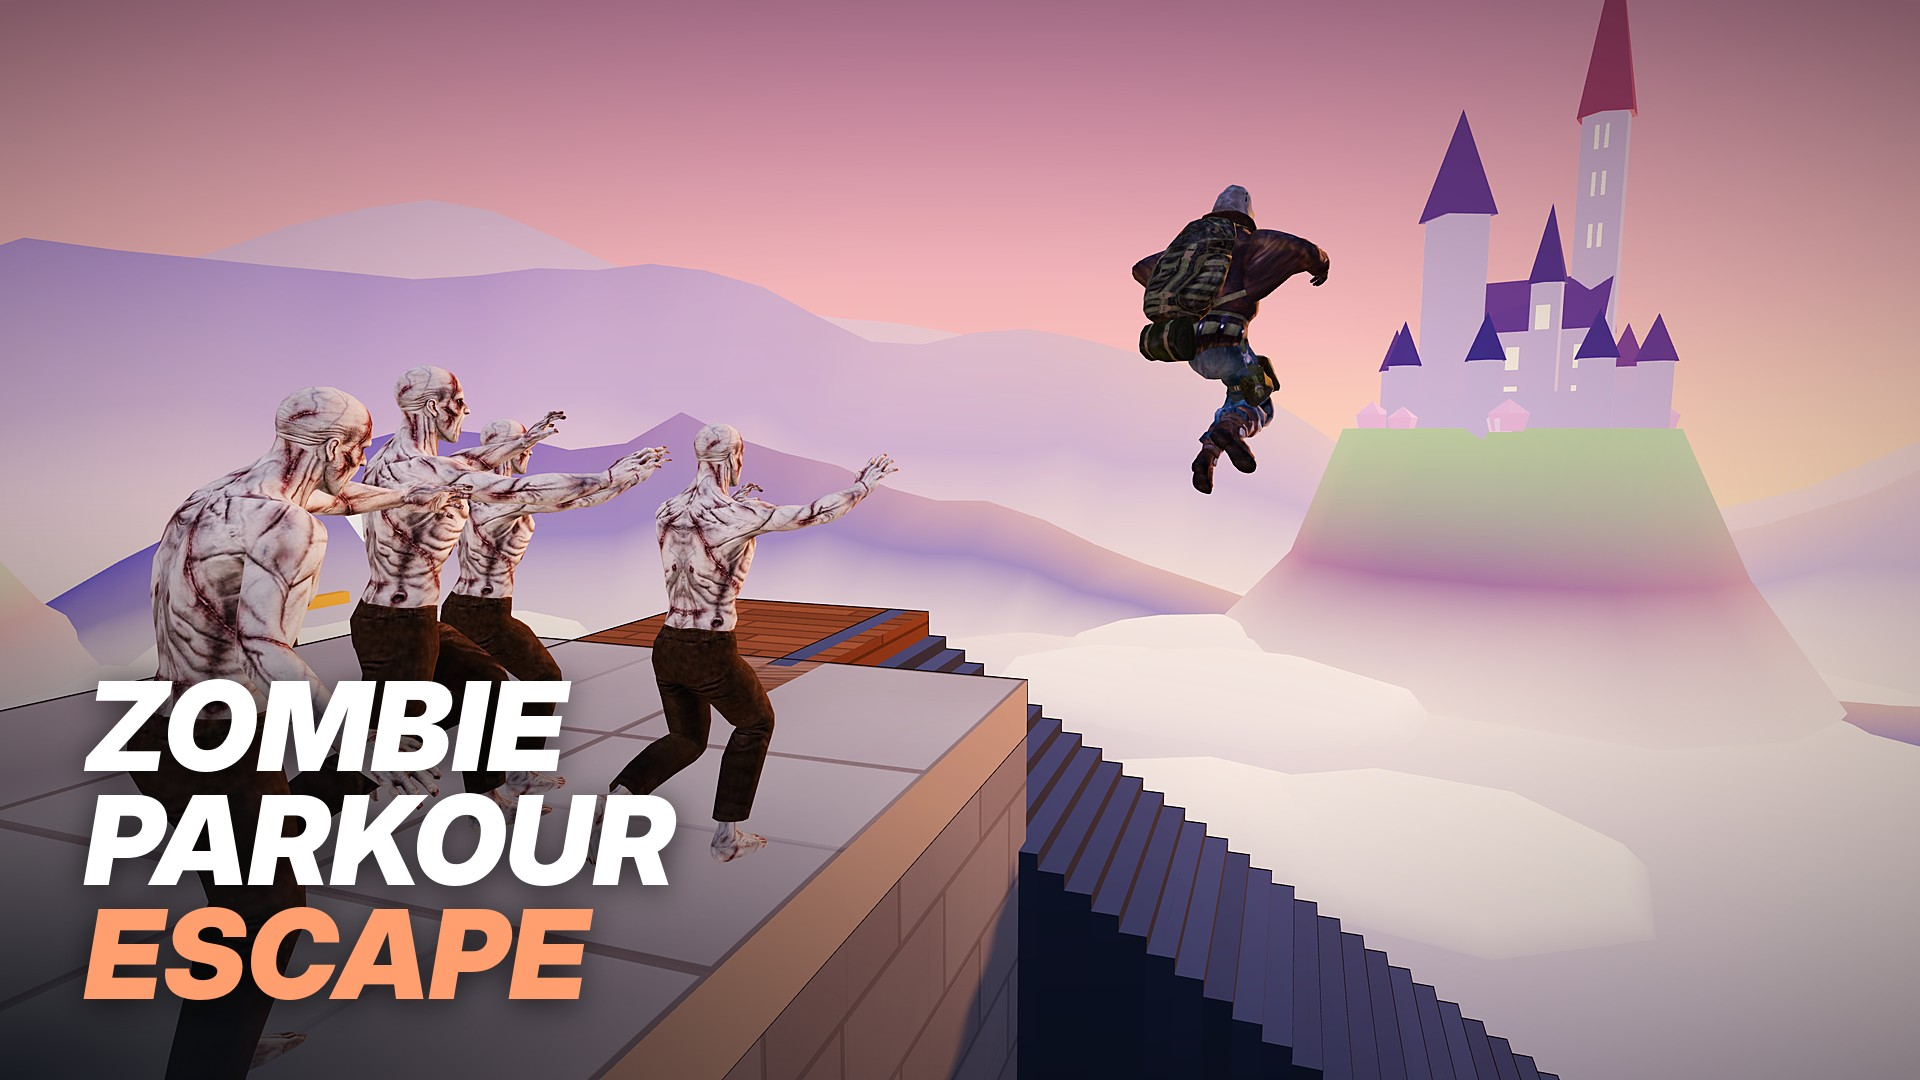
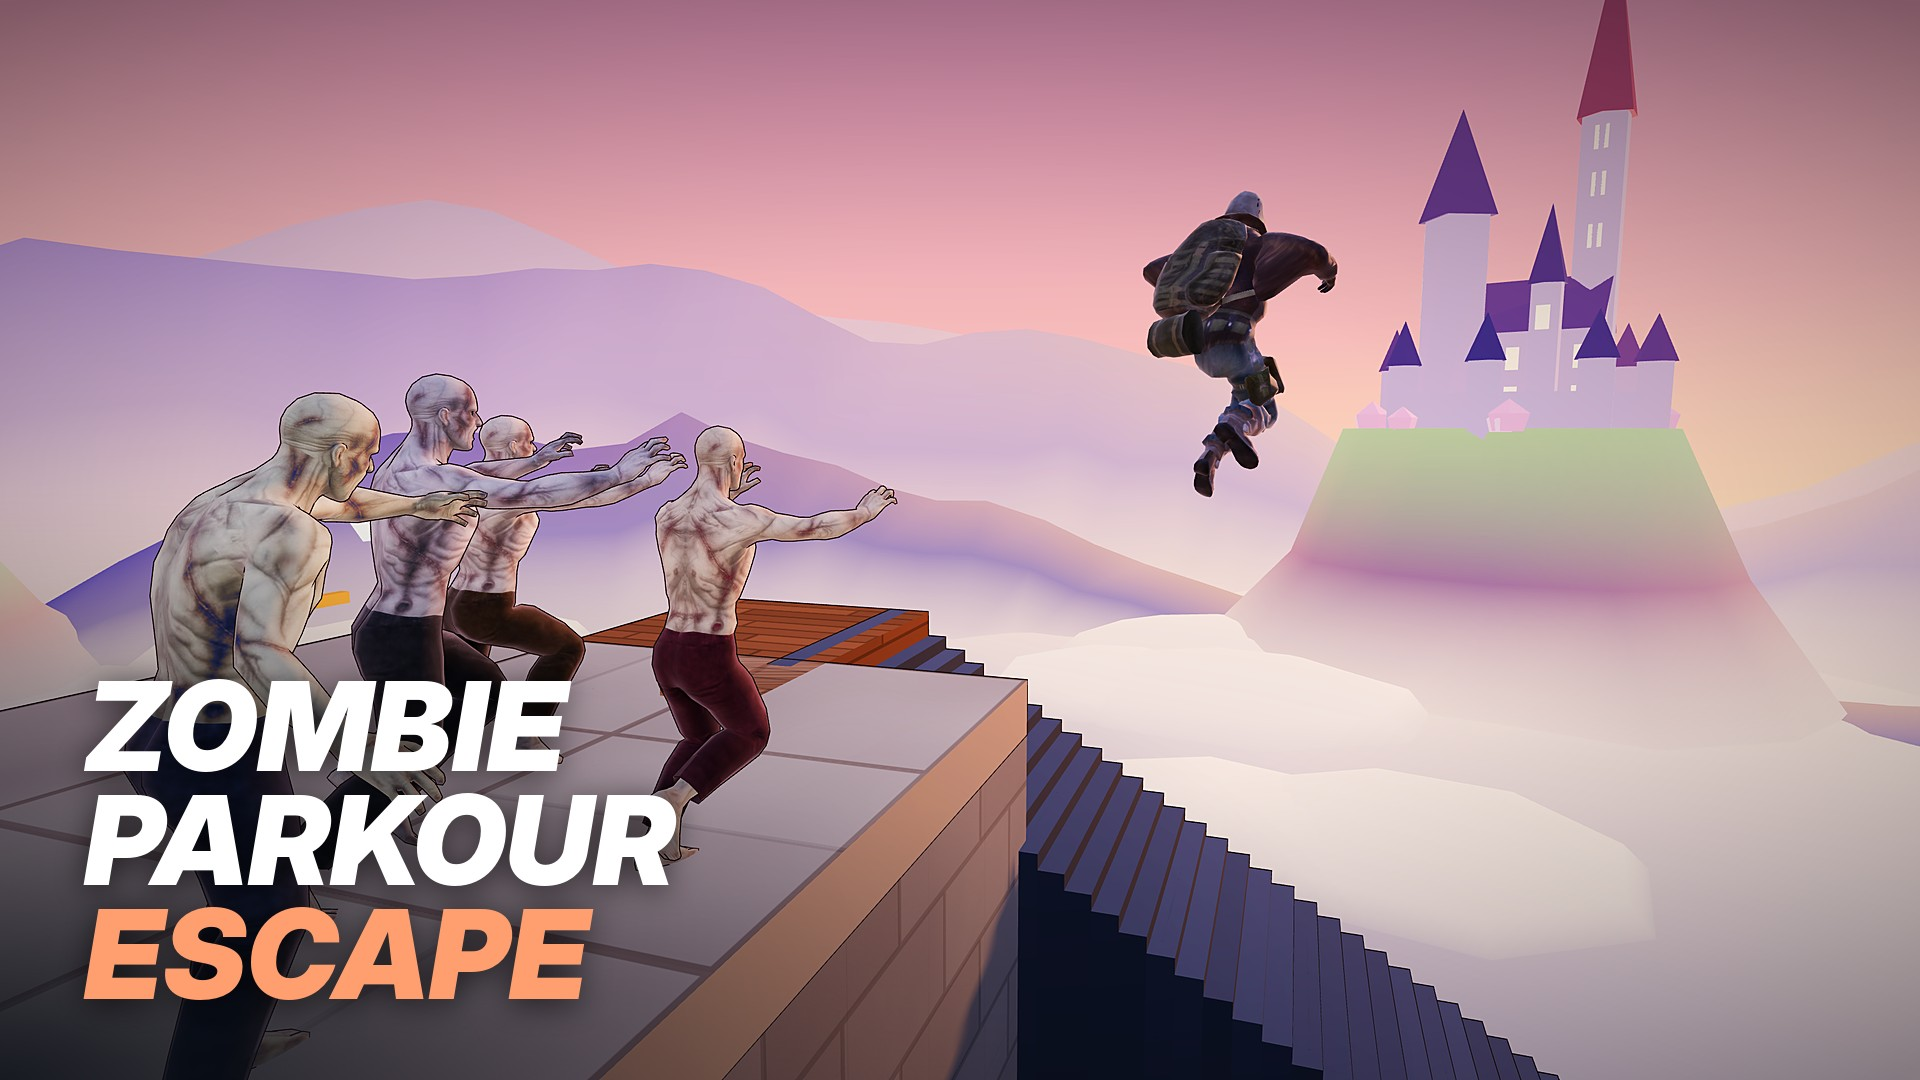
ゾンビの色は群れの中でいちばん少ない組み合わせを選ぶ／ホームの絵と表紙を新しい見た目で撮り直し
- 開始直後の4体が毎回ほぼ同じ色（乱数の並びが固定）だったので、生きている群れで少ない色を選ぶ
- assets/lobby/old-town-chase.webp と promo/covers/ の3枚：場面・設定は同じ、ゾンビが輪郭線つき・別々の色

Claude-Session: https://claude.ai/code/session_01QAvNNhRa9sF4Anrf1r9Pmm

Changed region(s): [[0.0625, 0.3361, 0.4688, 0.825], [0.5938, 0.1528, 0.7188, 0.4583]]

diff --git a/character-look.js b/character-look.js
@@ -76,7 +76,7 @@
     { skin: [.8, .95, .78], cloth: [.045, .06, .12], clothAmt: 1 },
     { skin: [.88, .78, .7], cloth: [.085, .1, .055], clothAmt: 1 },
     { skin: [.74, .82, .96], cloth: [.06, .06, .07], clothAmt: 1 },
-    { skin: [1, .95, .8], cloth: [.14, .055, .04], clothAmt: 1 },
+    { skin: [1, .95, .8], cloth: [.15, .035, .05], clothAmt: 1 },
   ];
   const variantCache = new Map(); // source material -> [materials]
   function variantOf(source, index) {
@@ -129,7 +129,10 @@
   const offsets = new WeakMap();
   function dress(zombie) {
     const body = zombie.m; body.skyLook = true; stats.dressed++;
-    const index = Math.floor(roll() * VARIANTS.length), tall = .95 + roll() * .1, wide = .93 + roll() * .16;
+    // The variant the living pack has least of (ties by chance), so a pack never comes out all alike.
+    const used = VARIANTS.map(() => 0); for (const other of sky.Jt) if (!other.dead && other !== zombie && other.m?.skyVariant !== undefined) used[other.m.skyVariant]++;
+    const least = Math.min(...used), free = used.map((count, k) => count === least ? k : -1).filter(k => k >= 0);
+    const index = free[Math.floor(roll() * free.length)], tall = .95 + roll() * .1, wide = .93 + roll() * .16;
     const plainKind = zombie.kind && zombie.kind !== 'walker';
     body.skyVariant = index; body.skyMeshes = []; body.skyOwnLook = plainKind ? ZOMBIE_LOOK : { ...ZOMBIE_LOOK, ...VARIANTS[index] };
     body.inner.scale.set(body.inner.scale.x * wide, body.inner.scale.y * tall, body.inner.scale.z * wide);

diff --git a/canyon.html b/canyon.html
@@ -7856,7 +7856,7 @@ window.skyFoundation?.attach(window.__skyInternals,window.__game);
 <script type="module" src="./weapon-hud.js?v=20261113-hud-v2"></script>
 <script type="module" src="./threat-trace.js?v=20261113-threat-v5"></script>
 <script type="module" src="./threat-edge.js?v=20261113-threat-v5"></script>
-<script type="module" src="./character-look.js?v=20261124-look-v2"></script>
+<script type="module" src="./character-look.js?v=20261124-look-v3"></script>
 <script type="module" src="./edge-pins.js?v=20261122-no-ammo-pin-v2"></script>
 <script src="./hud-declutter.js?v=20261115-declutter-v1" defer></script>
 <script type="module" src="./context-click.js?v=20261114-click-v2"></script>

diff --git a/index.html b/index.html
@@ -7885,7 +7885,7 @@ window.skyFoundation?.attach(window.__skyInternals,window.__game);
 <script type="module" src="./pause-focus.js?v=20261122-first-person-v1"></script>
 <script type="module" src="./mood.js?v=20261121-scenery-v2"></script>
 <script type="module" src="./far-scenery.js?v=20261122-sea-v1"></script>
-<script type="module" src="./character-look.js?v=20261124-look-v2"></script>
+<script type="module" src="./character-look.js?v=20261124-look-v3"></script>
 <script type="module" src="./look-pass.js?v=20261122-world-v2"></script>
 <script type="module" src="./ink-outline.js?v=20261111-ink-v1"></script>
 <script type="module" src="./contact-shadow.js?v=20261112-contact-v1"></script>

diff --git a/README.md b/README.md
@@ -5,7 +5,7 @@
 - **新しいファイル `character-look.js`**（両マップ。描画の直前に働く）
   - **塗り**：人とゾンビの写真のようなテクスチャを、粗いミップと混ぜて平らにし、縁に暗い色を足した（街の壁と同じ「塗った絵」に寄せる）。人の自己発光は 1 → 0.6。
   - **輪郭線**：ゾンビに、街と同じ色（`0x2b2220`）の線を付けた（裏返した外殻を1体につき1つ）。**PC だけ**。タッチ端末（`html.touch`）では作らない。`?charOutline=1` で強制、`?charOutline=0` で外す。人のモデルは骨ではなくモーフで動くので、線は付けていない。
-  - **見分け**：ゾンビ1体ごとに、肌の色とズボンの色（5通り）、背と幅（背 ±5%・幅 −7〜+9%）を変える。歩き・走りの周期の位置もずらす（群れが同じ足並みで動かない）。
+  - **見分け**：ゾンビ1体ごとに、肌の色とズボンの色（5通り。いま生きている群れの中でいちばん少ない組み合わせを選ぶので、群れが同じ色でそろわない）、背と幅（背 ±5%・幅 −7〜+9%）を変える。歩き・走りの周期の位置もずらす（群れが同じ足並みで動かない）。
   - **進化型の見た目を全難易度に**：これまで超ベリーハード（試作）だけだった進化型のモデルを、やさしい〜ハードでも見た目として混ぜる（開始30フレーム後に読み込む）。強さ・速さは同じ。試作の3種類（歩き・走り・重装）の色分けはそのまま。進化型のモデル（`assets/zombie-gunrun-evolved.glb`、279 KB）を全員が開始後に読み込むようになる。
   - **重なり**：生きているゾンビ2体が 0.62 m より近いとき、**描画だけ**最大 0.3 m ずらす。ゲーム上の位置・経路・当たり判定は動かさない。
   - **フックの輪**：金属 100% で映り込む物がなく真っ黒（タイヤに見えた）だったのを、暗い鉄に。
@@ -13,6 +13,7 @@
   - **撃たれたあとも見た目を保つ**：弾が当たると、ゲームはその1体だけ光らせるために材質を複製する（`enhancements.js` の `flashZombie`）。複製には塗りが引き継がれないので、次の描画で付け直す。
   - 合わせて直した前からの不具合：撃たれたゾンビの自己発光が、光ったあと 0.3 ではなく 1 に戻っていた（**一度撃たれたゾンビだけ白く明るくなっていた**）。元の値に戻すようにした（`enhancements.js`）。
   - ゲームの乱数（`Math.random`）は使わない（three.js は物を作るたびに乱数を4つ使うので、この処理の間だけ自前の乱数に差し替える）。試作の種類の出方が変わらないことを `bench/zombie-types-browser.cjs` で確かめた。
+- **ホームの絵・初回カード・表紙3枚を撮り直した**（`assets/lobby/old-town-chase.webp`、`promo/covers/`）。場面と設定は 11/23 と同じで、ゾンビが新しい見た目（輪郭線・4体が別々の色）になった。
 - **血（`enhancements.js`）**：四角い粒を、飛ぶ向きに伸びたしずくに。数と色は同じ。
 - **弾の線（`enhancements.js`）**：太さを半分に（`0.02 × 距離` → `0.0075 × 距離`）、色を少し明るく。
 - **負荷（ハード・ゾンビ6〜7体が画面内、1280×720）**：旧市街は 568 回・16.4万三角形 → PC 575 回・18.2万（輪郭線の分、1体あたり描画1回・約3千三角形）。輪郭線なし（＝スマホ）は 567 回・16.4万で前と同じ。渓谷は 126 回・5.3万 → PC 138 回・7.2万、スマホ 130 回・5.7万。**iPhone 実機の時間は測れていない**ので、スマホの輪郭線は入れていない。
